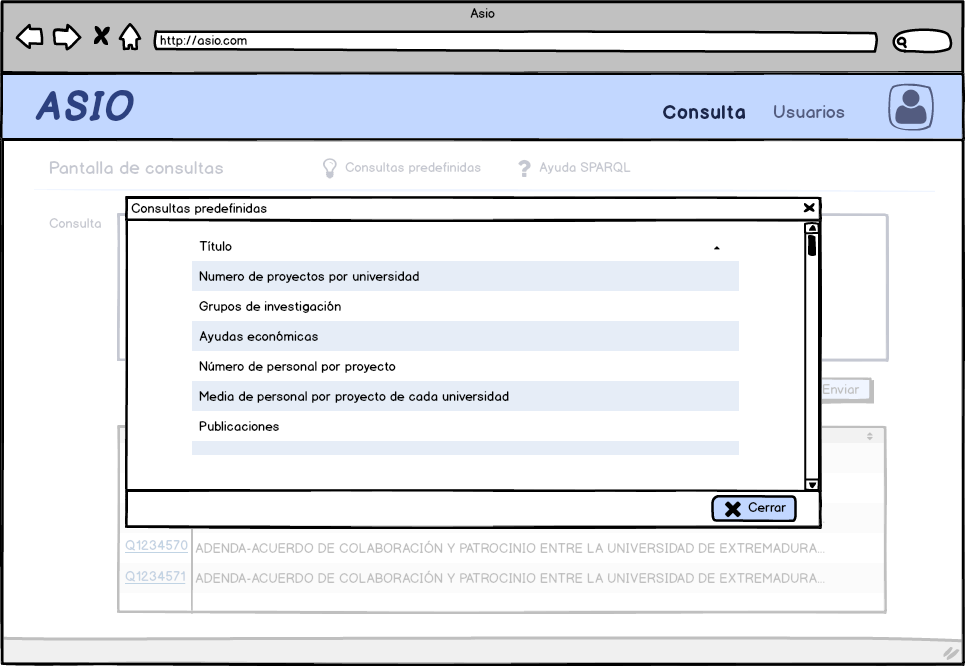
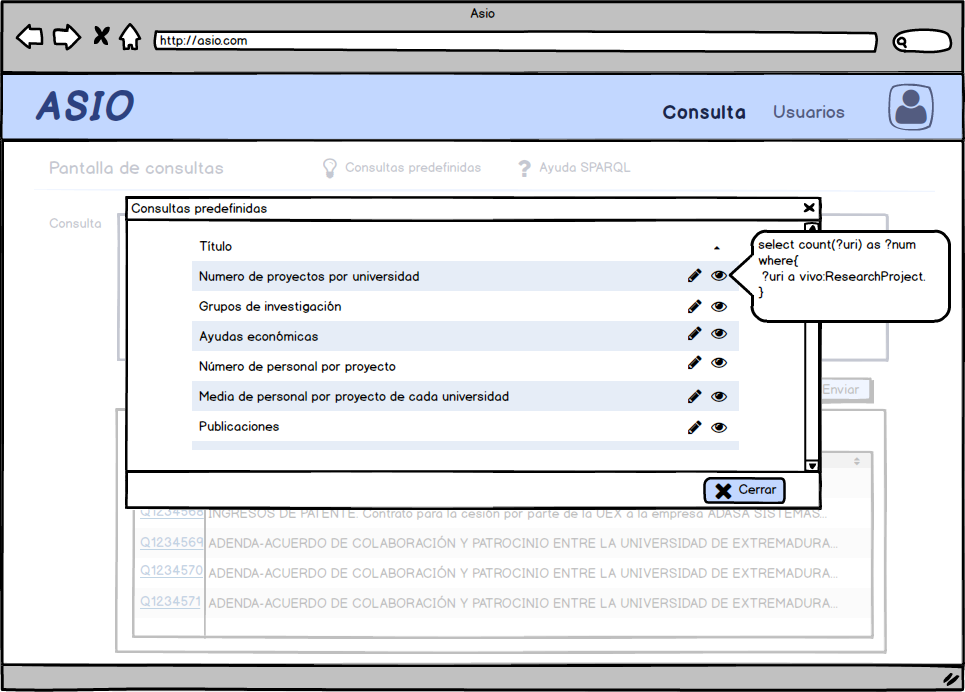
[SEMANTMURC-276] - Ampliar pantallas Pantallas de consulta SPARQL actualizadas

diff --git a/arquitectura_semantica/analisis_funcional/Diseño de pantallas/Diseño de pantallas.md b/arquitectura_semantica/analisis_funcional/Diseño de pantallas/Diseño de pantallas.md
@@ -134,15 +134,23 @@ Consulta de datos
 
 ### Pantalla genérica de consulta de datos
 
-Para consultar datos, los usuarios podrán acceder a una pantalla donde se permitirá hacer consultar en [SPARQL](https://es.wikipedia.org/wiki/SPARQL).
+Para consultar datos, los usuarios podrán acceder a una pantalla donde se permitirá hacer consultas en [SPARQL](https://es.wikipedia.org/wiki/SPARQL). Esta pantalla dispondrá de sistemas para ayudar al usuario (colores, autocompletes, etc) a editar las consultas, acceso a las consultas predefinidas, opción para guardar la consulta como predefinida, si se dispone de permisos, y acceso a la ayuda sobre SPARQL.
+
+Los resultados de la consulta se podrán mostrar en diferentes formatos dependiendo de los datos que se muestren. Estos formatos podrán ser una tabla, mapa, timeline o gráfica.
 
 ![Pantalla SPARQL](./images/mocks/consulta.png)
 
 
 
-En esta pantalla habrá la opción de seleccionar una consulta de datos predeterminada y de modificarla.
+Si se accede a la opción de consultas predefinidas se tendrá la opción de seleccionar una consulta de datos predeterminada, de visualizarla o de modificarla.
 
 ![Pantalla de consultas](./images/mocks/consulta-predeterminada.png)
+
+
+
+Se podrá guardar la consulta como predefinida, teniendo que confirmar el guardado:
+
+![Pantalla de consultas](./images/mocks/consulta-guardar-predeterminada.png)
 
 
 

diff --git a/arquitectura_semantica/analisis_funcional/Requisitos/Documents/Requisitos funcionales.md b/arquitectura_semantica/analisis_funcional/Requisitos/Documents/Requisitos funcionales.md
@@ -99,7 +99,7 @@
 | RF4.3  | En la pantalla de consultas SPARQL se propondrán unas consultas predefinidas en función del rol de los usuarios. |           |
 |        |                                                              |           |
 | RF4.4  | Las consultas predefinidas para los usuarios de ministerios se podrán añadir/borrar mediante una pantalla y un usuario con un rol predeterminado. |           |
-| RF4.5  | Se facilitará la edición de las consultas predefinidas en la pantalla de consulta SPARQL |           |
+| RF4.5  | Se facilitará la edición de las consultas predefinidas en la pantalla de consulta SPARQL mediante el coloreado de variables y funciones conocidas y sugerencias. |           |
 |        | Al seleccionar una consulta predefinida SPARQL, esta se mostrará en el editor SPARQL y podrá ser editada. |           |
 | RF4.6  | Se harán sugerencias en la pantalla de consulta SPARQL como pueden ser autocomplete de variables, de entidades almacenadas, de prefijos y vocabularios. |           |
 |        | El editor SPARQL mostrará el texto coloreado según su significado en lenguaje SPARQL para ayudar al usuario a realizar la consulta. |           |
